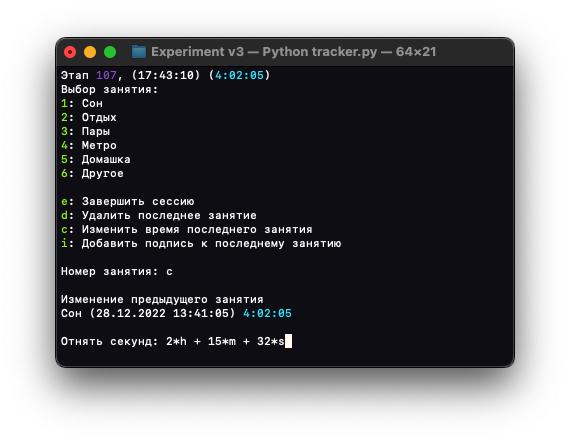
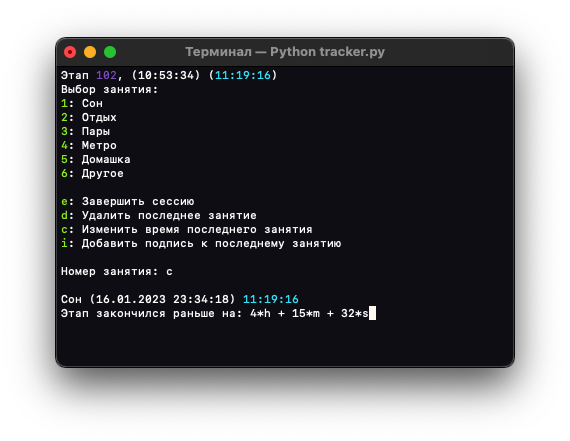
QoL: convenient `change time` event and more info
`ANOTHER_DEFAULT_NOTE` constant, fixed grammar

diff --git a/tracker.py b/tracker.py
@@ -126,11 +126,13 @@ while True:
 
         # if activity repeat
         if len(activities) and activity_name == activities[-1][0]:
-            print(f"Продолжение предудущей сессии -> {activities[-1][0]} ({activities[-1][2]})")
+            print(f"Продолжение предыдущей сессии -> {activities[-1][0]} ({activities[-1][2]})")
+            note = activities[-1][3]
 
         else:
             note = ''
-            if activity_name == 'Другое': note = input("Подпись: ") or 'Магазин'
+            if activity_name == 'Другое':
+                note = input("Подпись: ") or (ANOTHER_DEFAULT_NOTE)
 
             activities.append([
                 f"{activity_name}", 
@@ -140,7 +142,7 @@ while True:
             ])
         
         data_save(saved=False)
-        input(f"<< {activity_name} >>")
+        input(f"<< {activity_name}{'' if not note else ' (' + note + ')'} >>")
         
         timestamp = time()
     
@@ -164,13 +166,22 @@ while True:
         activity_start_time = activities[-1][2]
 
         activity_lasts = timedelta(0, round(timestamp - activities[-1][1]))
-
+        print(f"Последний этап: {activity_name} ({activity_start_time}) {C}{activity_lasts}{W}")
+        
         try: 
-            print(f"Изменение предыдущего занятия\n{activity_name} ({activity_start_time}) {C}{activity_lasts}{W}")
-            activities[-1][1] += eval(input("\nОтнять секунд (этап начался позже): "))
-            activities[-1][2] = (datetime.fromtimestamp(activities[-1][1])).strftime('%d.%m.%Y %H:%M:%S')
-        except: 
-            input(f"\n{R}Ошибка ввода{W}")
+            allocated_time = eval(input("Этап закончился раньше на: "))
+            
+            if allocated_time < activity_lasts.total_seconds():
+                timestamp -= allocated_time
+
+                activity_lasts = timedelta(0, round(timestamp - activities[-1][1]))
+                input(f"\nНовая продолжительность этапа: {C}{activity_lasts}{W}")
+
+            else:
+                input(f"\n{R}Этап становится отрицательным, действие отменено{W}")
+        
+        except:
+            input(f"\n{R}Действие отменено{W}")
 
     # add a note
     if session_id == len(ACTIVITIES) + 4:

diff --git a/constants.py b/constants.py
@@ -20,16 +20,14 @@ ACTIVITIES = {
     "Домашка": (149, 103, 189),
     "Другое": (140, 86, 75),
 
-    # "Void": (0, 0, 0), # empty time
+    #"Void": (0, 0, 0), # empty time
 
     # Activity name: activity color (for plots, rgb)
     # Can be expanded with custom activities
     # Order determines plot of average day
 }
 
-# Because colors in matplotlib should be in 0-1 range
-for activity in ACTIVITIES:
-    ACTIVITIES[activity] = tuple([rgb/255 for rgb in ACTIVITIES[activity]])
+ANOTHER_DEFAULT_NOTE = 'Магазин' # default note when you select `another` (другое) activity with empty note
 
 # Plot settings
 FULL = False # display the entire plot or frame it by 2 weeks
